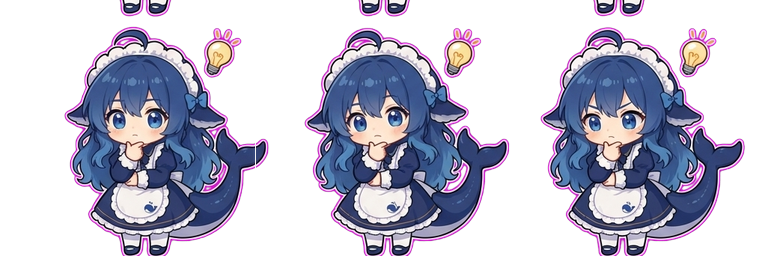
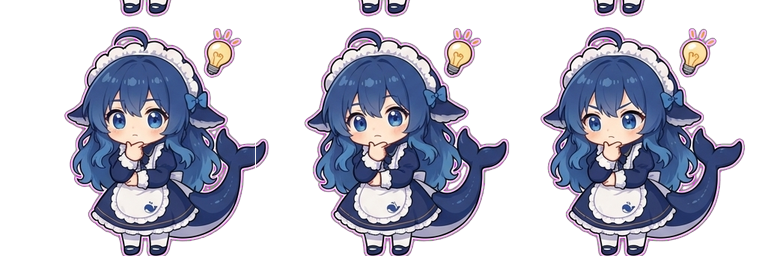
fix(assets): 色键去溢色（despill）——消除角色边缘洋红描边
- slice-sheet.py 新增 despill（色键后自动）：①半透明边缘按最近背景色反解真实色 c=(c-(1-α)bg)/α；②不透明混合残留（距背景<120 且洋红主导）做溢色抑制（补 G、降 R/B）
- 修复 (h,w,1) alpha 与 3D 通道广播导致的巨数组卡死（压 2D）
- 9 张 sheet 全量重建：洋红残留从 14~16% 降至 0.04~0.29%（总计 0.10%）
- 验证：assets 200、浏览器冒烟 OK；发现验证站 web 不尊重 DSH_HOME（隔离 home 不挂插件），验证走共享 home

diff --git a/scripts/slice-sheet.py b/scripts/slice-sheet.py
@@ -99,6 +99,40 @@ def harden_alpha(img):
     return out
 
 
+def despill(img, bg_colors):
+    """去溢色（色键残边）：
+    1) 半透明边缘像素按最近背景色反解真实颜色 c_true = (c - (1-α)·bg) / α；
+    2) 不透明混合残留（α≈255 但距背景 < 120 且洋红主导 R,B≫G）做溢色抑制：补 G、降 R/B。
+    角色被提示约束为不含洋红，故距背景近的洋红主导像素可安全视为残边。"""
+    import numpy as np
+
+    arr = np.asarray(img.convert('RGBA'), dtype=np.float64)
+    rgb = arr[:, :, :3]
+    a = arr[:, :, 3] / 255.0  # (h,w) 2D，避免与 3D 通道广播出巨数组
+    dists = np.stack([np.linalg.norm(rgb - np.asarray(b, dtype=np.float64), axis=2) for b in bg_colors])
+    nearest = np.argmin(dists, axis=0)
+    dmin = np.min(dists, axis=0)
+    bg = np.stack([np.asarray(b, dtype=np.float64) for b in bg_colors])[nearest]
+    # 1) 半透明反解
+    a_safe = np.maximum(a, 1e-3)
+    corrected = np.clip((rgb - (1 - a_safe)[:, :, None] * bg) / a_safe[:, :, None], 0, 255)
+    semi_mask = (a > 0.02) & (a < 0.98)
+    rgb = np.where(semi_mask[:, :, None], corrected, rgb)
+    # 2) 不透明溢色抑制
+    r, g, b = rgb[:, :, 0], rgb[:, :, 1], rgb[:, :, 2]
+    sp = np.clip(np.minimum(r, b) - g, 0, 255)  # 洋红溢色量
+    opaque_mask = (a >= 0.98) & (dmin < 120) & (sp > 8)
+    rgb = np.stack([
+        np.where(opaque_mask, r - sp * 0.35, r),
+        np.where(opaque_mask, g + sp * 0.7, g),
+        np.where(opaque_mask, b - sp * 0.35, b),
+    ], axis=2)
+    out = img.convert('RGBA')
+    data = np.asarray(out, dtype=np.uint8).copy()
+    data[:, :, :3] = np.clip(rgb, 0, 255).astype(np.uint8)
+    return Image.fromarray(data)
+
+
 def detect_grid(img, max_cells=8):
     w, h = img.size
     small = img.resize((64, 64), Image.LANCZOS).getchannel('A')
@@ -199,7 +233,8 @@ def main():
         else:
             bgs = [detect_bg(img)] if args.key == 'auto' else [[int(v) for v in c.split(',')] for c in args.key.split('|')]
             img = chroma_key(img, bgs, args.key_lo, args.key_hi)
-            print(f'keyed: bg={bgs} lo={args.key_lo} hi={args.key_hi}', file=sys.stderr)
+            img = despill(img, bgs)  # 去边缘溢色（洋红描边）
+            print(f'keyed: bg={bgs} lo={args.key_lo} hi={args.key_hi} +despill', file=sys.stderr)
         if args.repair:
             img = harden_alpha(img)
             print('repair: alpha hardened', file=sys.stderr)
